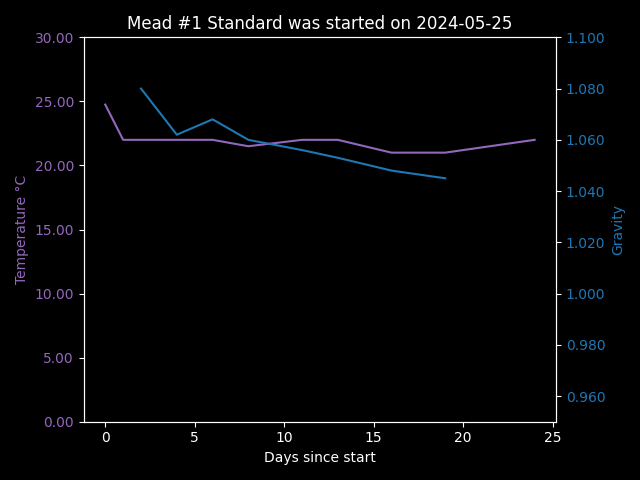
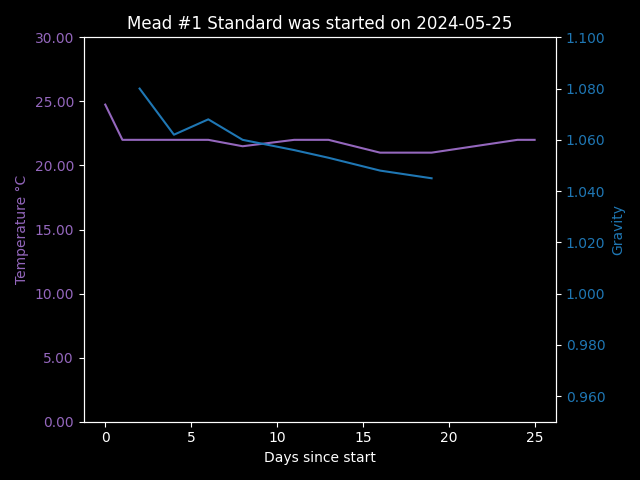
2024-06-19

diff --git a/Recipe List/#1 Standard.md b/Recipe List/#1 Standard.md
@@ -35,24 +35,24 @@ Yeast Food:
 
 <h2>Fermentation Data</h2>
 
-| Date       | Temperature  °C | Gravity | Notes                                                |
-|------------|-----------------|---------|------------------------------------------------------|
-| 2024-05-25 | 24.75           | 1.060   | start time around 5pm                                |
-| 2024-05-26 | 22.00           |         | PH 4.5, 3 min                                        |
-| 2024-05-27 | 22.00           | 1.080   | not sure about gravity readings currently,           |
-| 2024-05-29 | 22.00           | 1.062   | added Fermaid K 1.04g in 20ml water                  |
-| 2024-05-31 | 22.00           | 1.068   | Winetheif arrived, measurements taken more precisely |
-| 2024-06-02 | 21.50           | 1.060   | Taken with Refractometer                             |
-| 2024-06-05 | 22.00           | 1.056   |                                                      |
-| 2024-06-07 | 22.00           | 1.053   |                                                      |
-| 2024-06-10 | 21.00           | 1.048   |                                                      |
-| 2024-06-13 | 21.00           | 1.045   |                                                      |
-| 2024-06-18 | 22.00           |         |                                                      |
-|            |                 |         |                                                      |
-|            |                 |         |                                                      |
-|            |                 |         |                                                      |
-|            |                 |         |                                                      |
-|            |                 |         |                                                      |
+| Date       | Temperature  °C | Gravity | PH  | Notes                                                |
+|------------|-----------------|---------|-----|------------------------------------------------------|
+| 2024-05-25 | 24.75           | 1.060   |     | start time around 5pm                                |
+| 2024-05-26 | 22.00           |         |     | PH 4.5 (I don't trust the test strips), 3 min        |
+| 2024-05-27 | 22.00           | 1.080   |     | not sure about gravity readings currently,           |
+| 2024-05-29 | 22.00           | 1.062   |     | added Fermaid K 1.04g in 20ml water                  |
+| 2024-05-31 | 22.00           | 1.068   |     | Winetheif arrived, measurements taken more precisely |
+| 2024-06-02 | 21.50           | 1.060   |     | Taken with Refractometer                             |
+| 2024-06-05 | 22.00           | 1.056   |     |                                                      |
+| 2024-06-07 | 22.00           | 1.053   |     |                                                      |
+| 2024-06-10 | 21.00           | 1.048   |     |                                                      |
+| 2024-06-13 | 21.00           | 1.045   |     |                                                      |
+| 2024-06-18 | 22.00           |         |     |                                                      |
+| 2024-06-19 | 22.00           | 1.042   | 3.2 |                                                      |
+|            |                 |         |     |                                                      |
+|            |                 |         |     |                                                      |
+|            |                 |         |     |                                                      |
+|            |                 |         |     |                                                      |
 
 ![#1 Standard.png](%231%20Standard.png)
 
